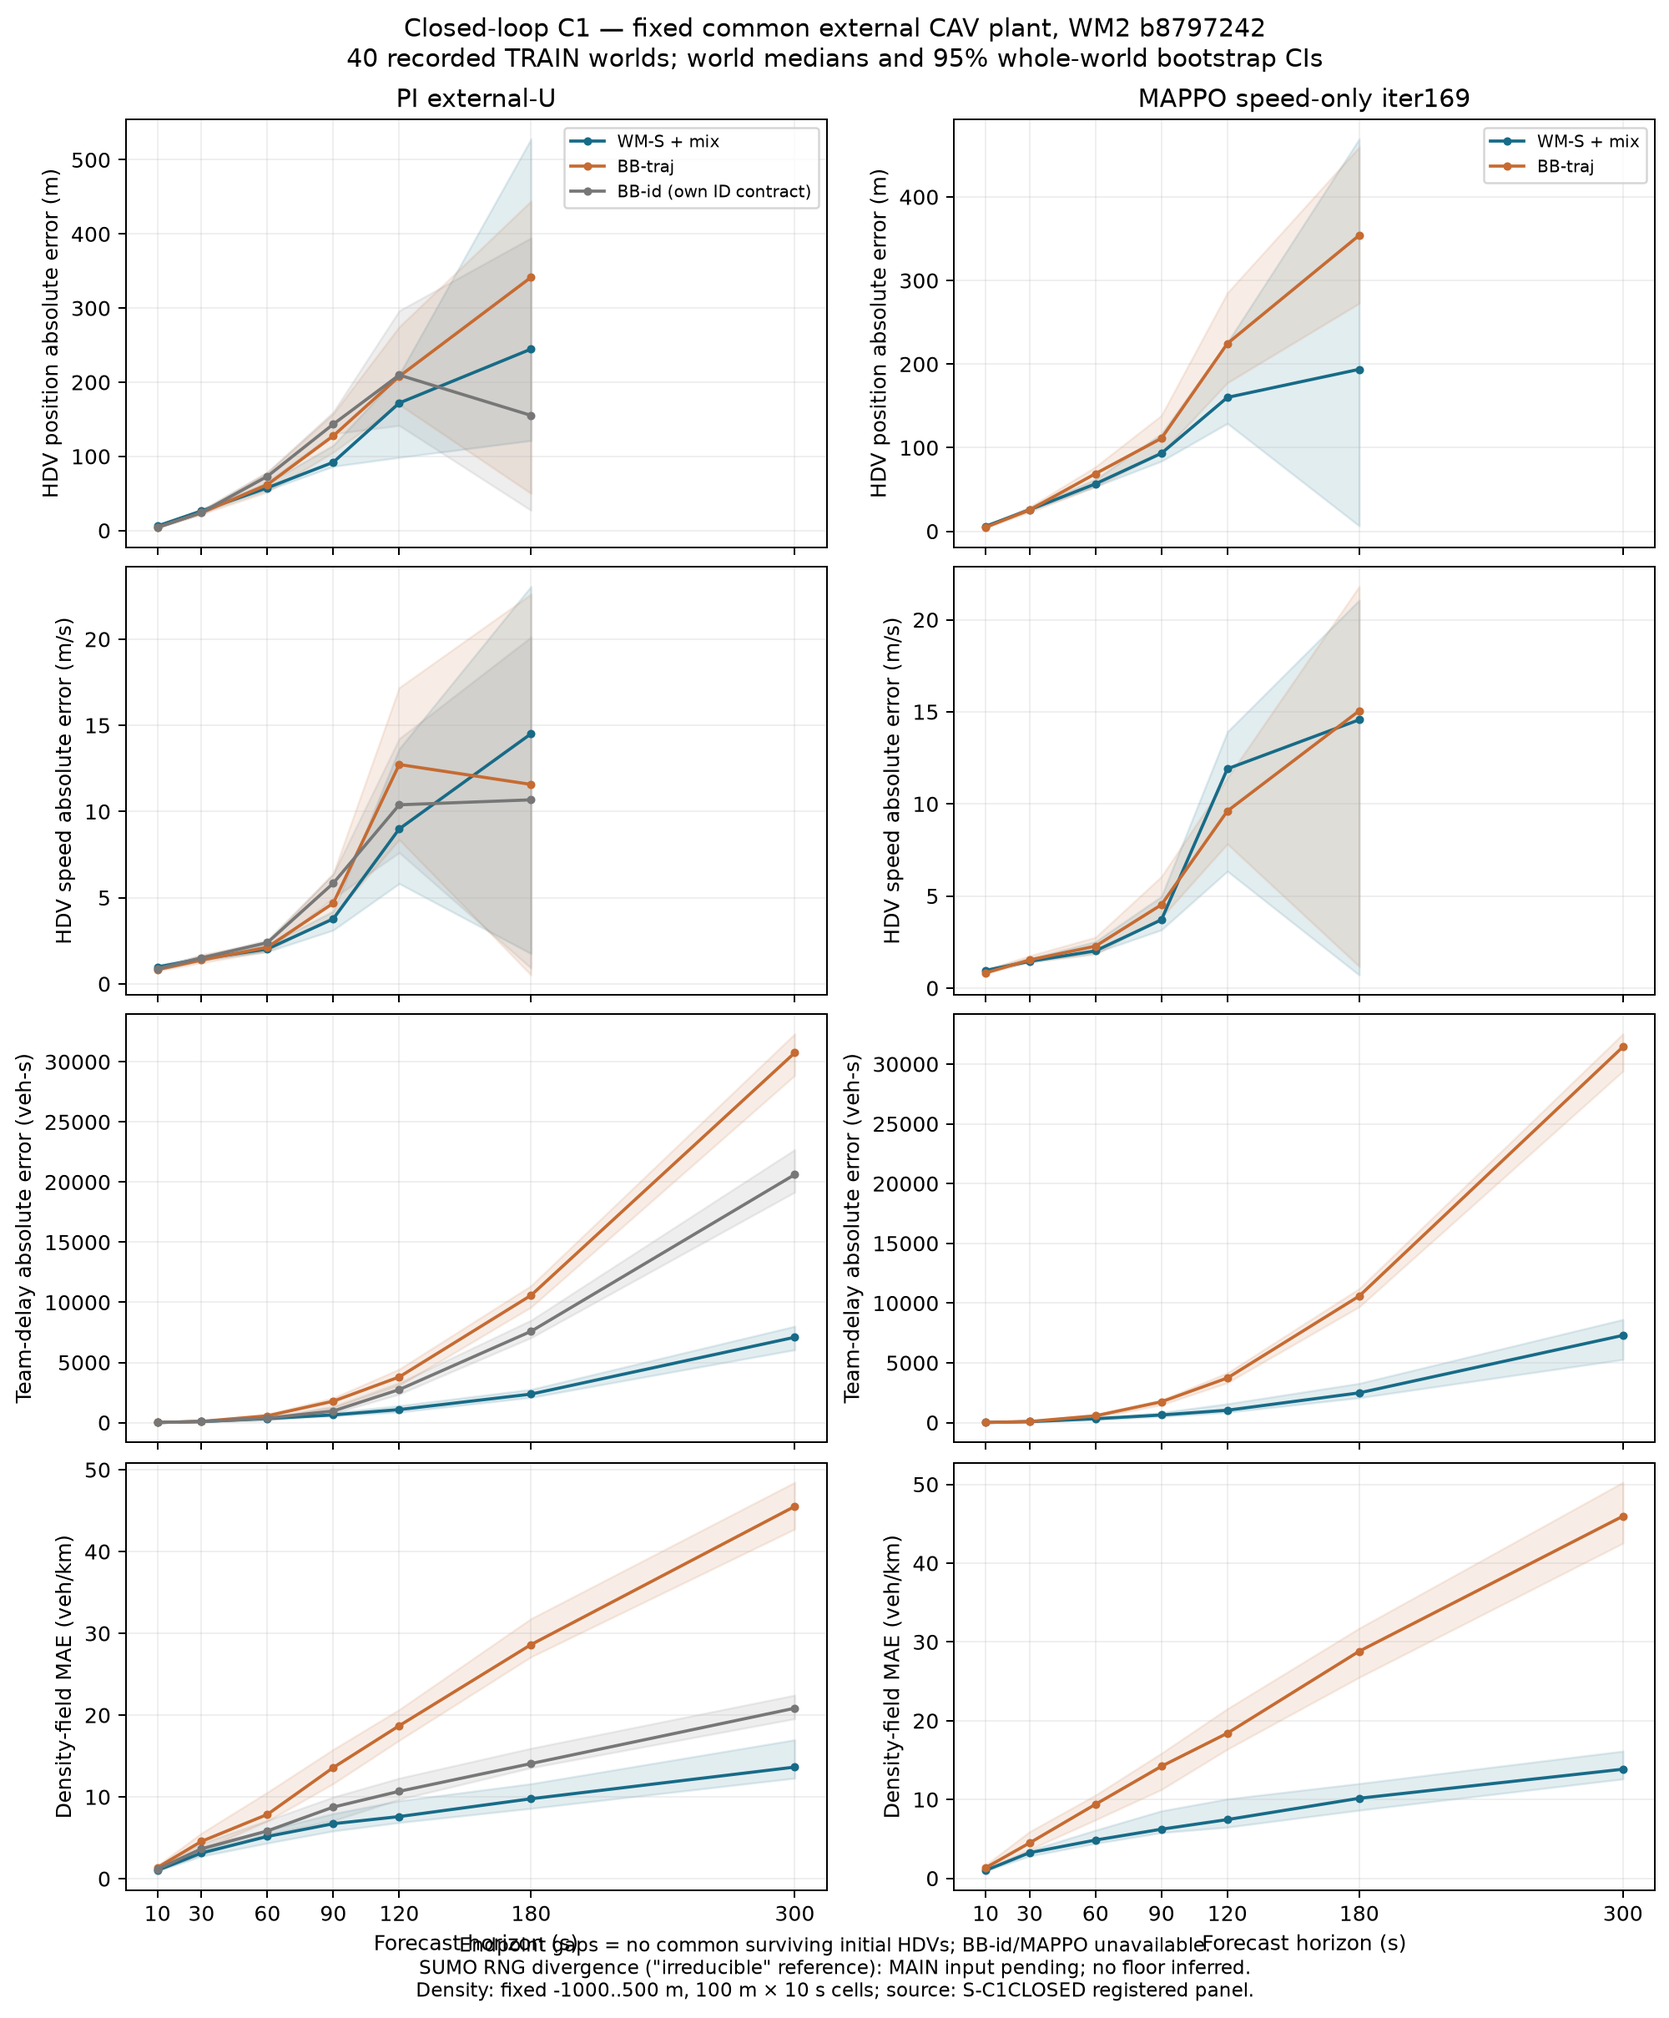
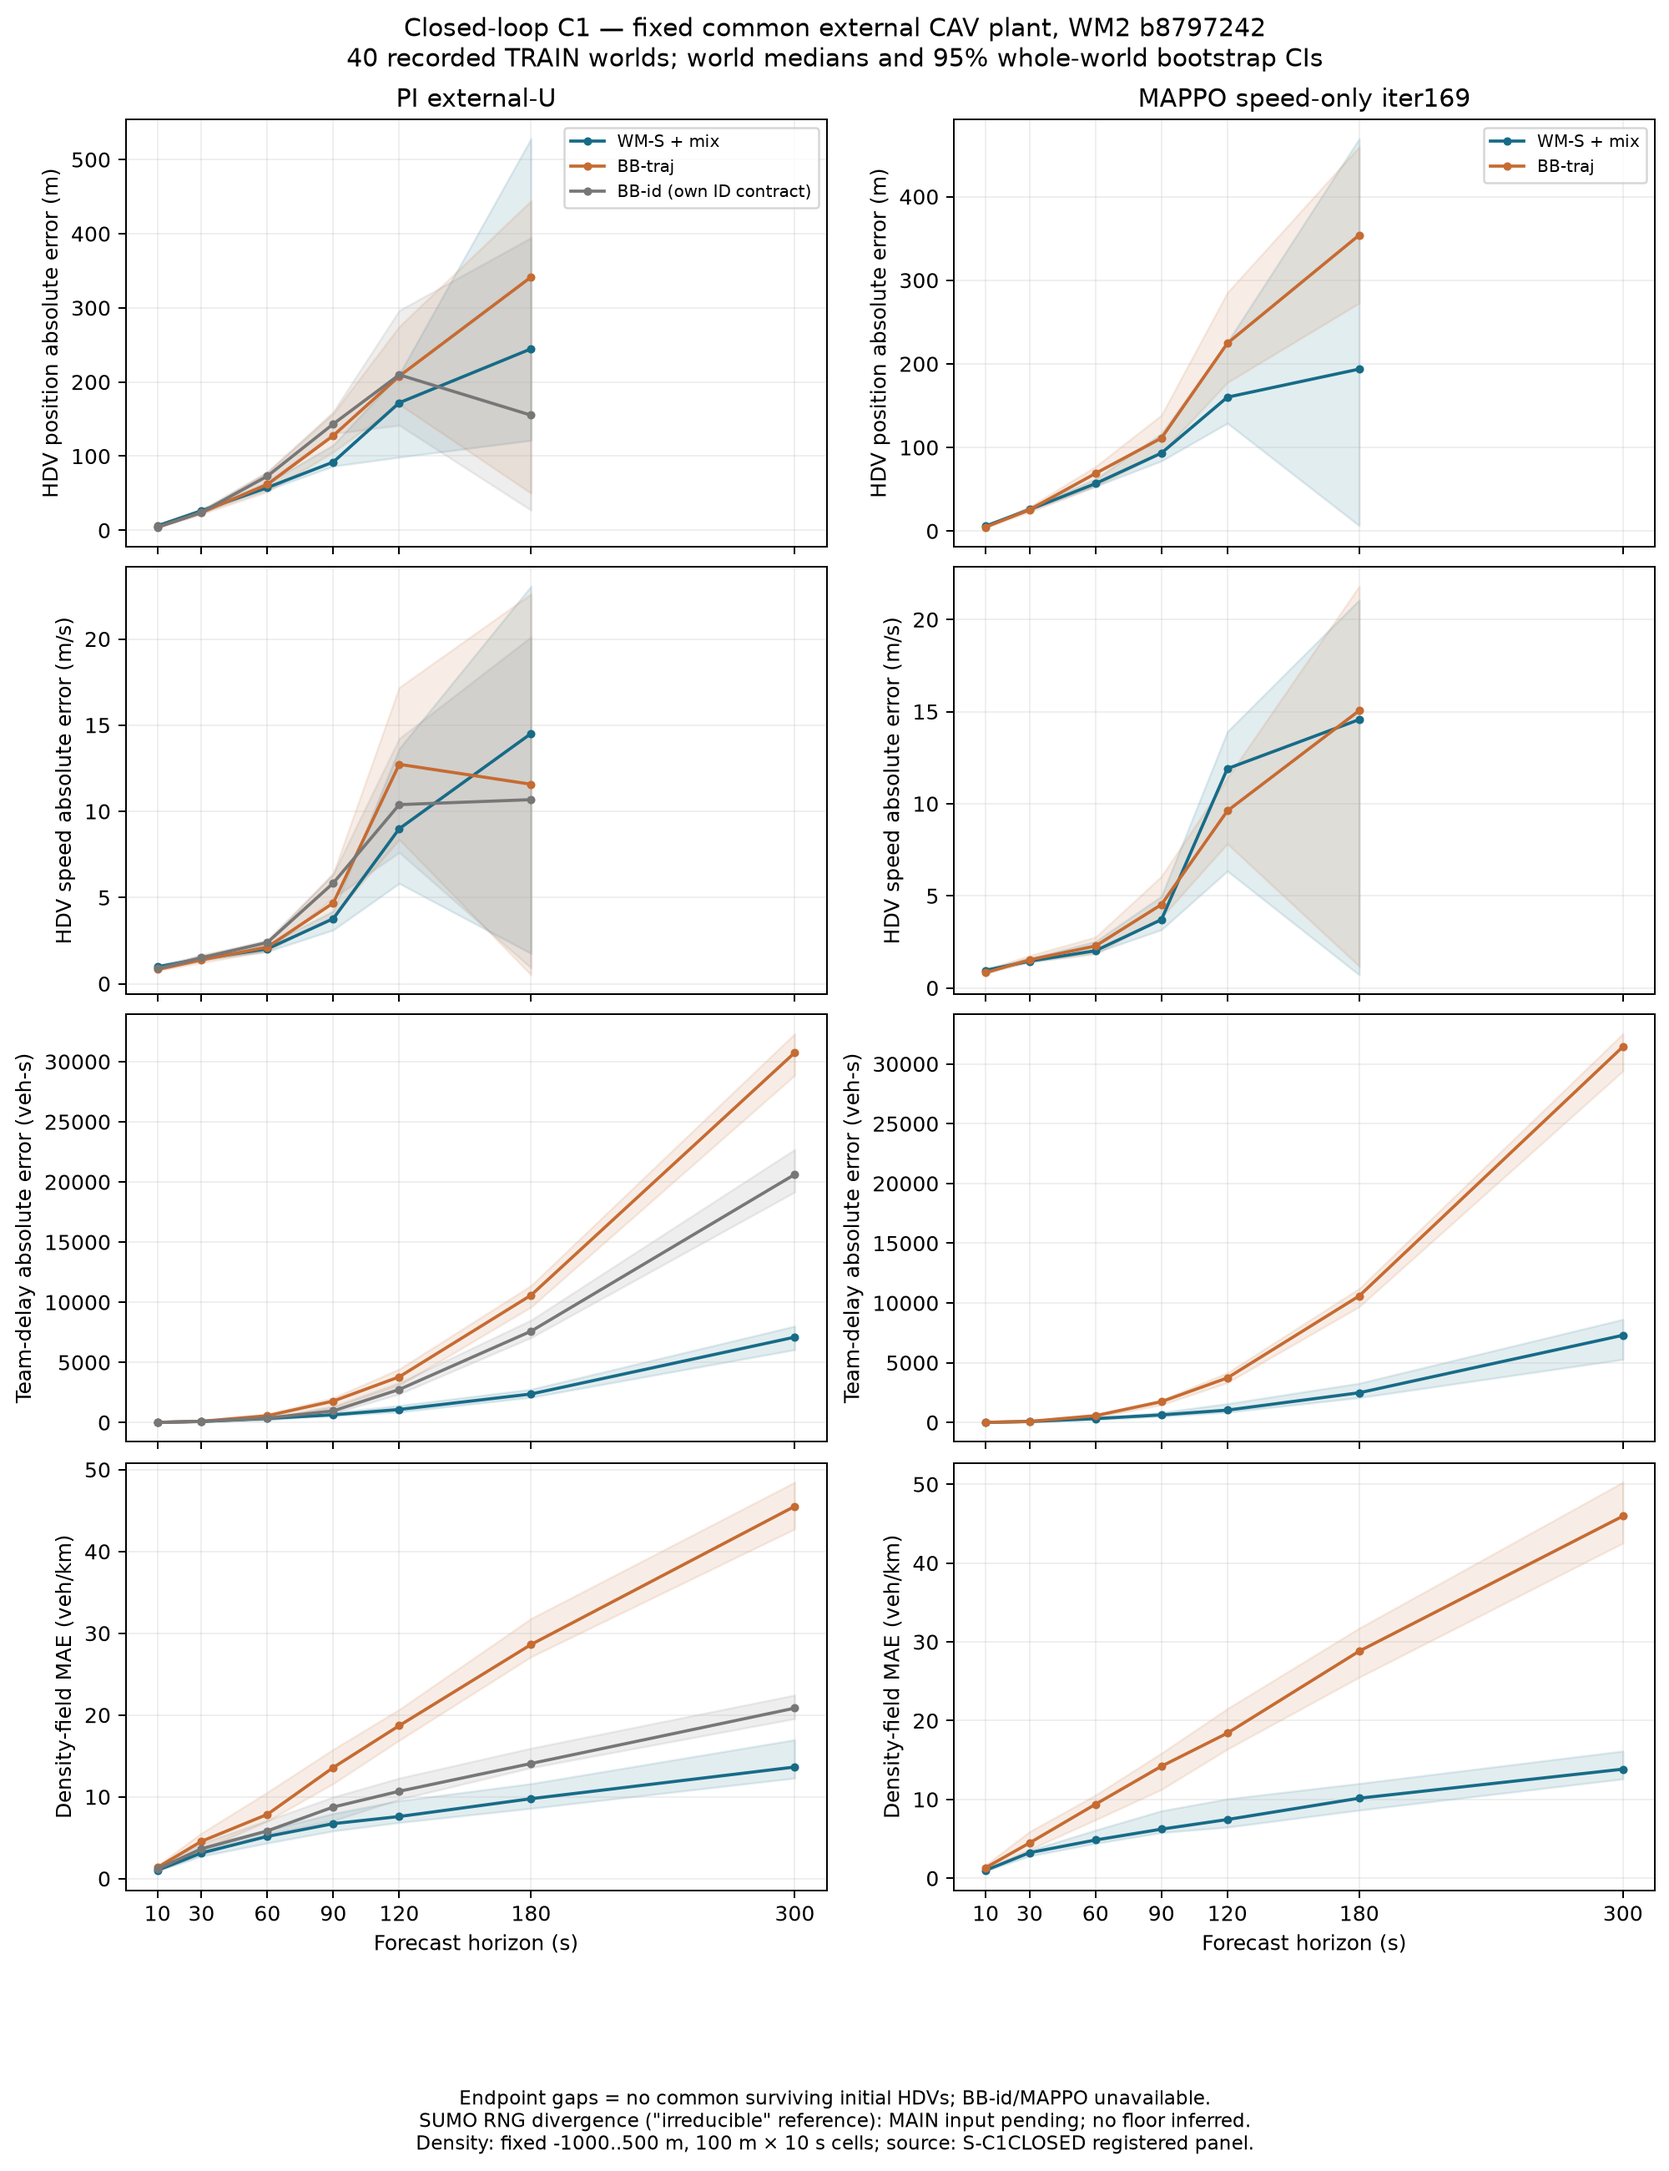
S-C1CLOSED: verify presentation and close owned resources

diff --git a/tools/c1closed/polish_delivery.py b/tools/c1closed/polish_delivery.py
@@ -1,0 +1,90 @@
+"""Presentation-only repair from verified CSVs; no forecasts or re-analysis."""
+from pathlib import Path
+import csv
+import hashlib
+import json
+from unittest.mock import patch
+
+import analyze
+import verify_delivery
+
+HERE = Path(__file__).resolve().parent
+OUT = HERE.parents[1]/'docs/paper_results'
+
+
+def digest(path):
+    return hashlib.sha256(path.read_bytes()).hexdigest()
+
+
+def main():
+    receipt_path = OUT/'C1CLOSED_ANALYSIS.json'
+    old = json.loads(receipt_path.read_text())
+    assert old['analyzer_sha256'] == digest(HERE/'analyze.py')
+    assert 'presentation_revision' not in old
+    for name, expected in old['outputs'].items():
+        assert digest(OUT/name) == expected
+    assert json.loads((HERE/'evidence/DELIVERY_VERIFIED.json').read_text())['passed']
+    assert (HERE/'out').is_dir()
+    archive = HERE/'out/presentation_before'
+    archive.mkdir()
+    for source in (receipt_path, OUT/'C1CLOSED.md', OUT/'C1CLOSED_error_horizon.png',
+                   HERE/'evidence/DELIVERY_VERIFIED.json'):
+        with (archive/source.name).open('xb') as f:
+            f.write(source.read_bytes())
+    metric_names = ('C1CLOSED_per_world.csv','C1CLOSED_paired.csv','C1CLOSED_bootstrap.csv')
+    metric_hashes = {n:digest(OUT/n) for n in metric_names}
+    with (OUT/'C1CLOSED_bootstrap.csv').open(encoding='utf-8',newline='') as f:
+        summary = list(csv.DictReader(f))
+    for row in summary:
+        row['horizon_s'] = int(row['horizon_s'])
+
+    import matplotlib
+    matplotlib.use('Agg')
+    from matplotlib.figure import Figure
+    savefig = Figure.savefig
+
+    def spaced_footer(fig, *args, **kwargs):
+        footers = [t for t in fig.texts if t.get_text().startswith('Endpoint gaps =')]
+        assert len(footers) == 1
+        footers[0].set_position((.5,-.065))
+        footers[0].set_verticalalignment('top')
+        return savefig(fig,*args,**kwargs)
+
+    target = HERE/'out/presentation_after'
+    target.mkdir()
+    # Reuse the exact frozen plot and CSV values; only footer placement changes.
+    with patch.object(Figure,'savefig',spaced_footer):
+        analyze.plot(summary,target)
+    (OUT/'C1CLOSED_error_horizon.png').write_bytes((target/'C1CLOSED_error_horizon.png').read_bytes())
+    report = (OUT/'C1CLOSED.md').read_text(encoding='utf-8')
+    report += ('## Interpretation and numerical limitation\n'
+        'At 60 s neither PI nor MAPPO paired HDV-position contrast excludes zero; current closed-loop endpoint superiority is inconclusive.\n'
+        'Lower 120–300 s team-delay error versus BB-traj coexists with large absolute errors and weak selection; it does not establish accurate controller evaluation.\n'
+        'Mixed-hardware exact cross-host parity failed; the prospectively registered numerical/ensemble gate passed 158/158. See `C1CLOSED_RUNTIME.md`; this is not a SUMO divergence floor.\n')
+    assert len(report.splitlines()) <= 60
+    (OUT/'C1CLOSED.md').write_text(report,encoding='utf-8')
+    assert {n:digest(OUT/n) for n in metric_names} == metric_hashes
+    updated = dict(old)
+    updated['outputs'] = {n:digest(OUT/n) for n in old['outputs']}
+    updated['presentation_revision'] = dict(script_sha256=digest(Path(__file__)),
+        original_analysis_sha256=digest(archive/receipt_path.name),
+        original_plot_sha256=old['outputs']['C1CLOSED_error_horizon.png'],
+        original_scientific_commit='b40939aa',metric_files_unchanged=metric_hashes,
+        changes='footer position and explicit scope interpretation only; frozen analyzer/inference/CSV values unchanged')
+    receipt_path.write_text(json.dumps(updated,indent=1),encoding='utf-8')
+    # Retain the original successful verification and generate a new one for the
+    # actual changed report/PNG/manifest using the unchanged verifier.
+    (HERE/'evidence/DELIVERY_VERIFIED.json').rename(HERE/'evidence/DELIVERY_PRE_LAYOUT.json')
+    verify_delivery.main()
+    check = dict(passed=True,metric_files_unchanged=metric_hashes,
+        analyzer_unchanged=digest(HERE/'analyze.py') == old['analyzer_sha256'],
+        original_archive=str(archive),analysis_sha256=digest(receipt_path),
+        script_sha256=digest(Path(__file__)),
+        changes=updated['presentation_revision']['changes'])
+    with (HERE/'evidence/PRESENTATION_UPDATED.json').open('x') as f:
+        json.dump(check,f,indent=1)
+    print(json.dumps(check))
+
+
+if __name__ == '__main__':
+    main()

diff --git a/tools/c1closed/close.py b/tools/c1closed/close.py
@@ -1,0 +1,71 @@
+"""Read-only owned-resource audit and explicit encoding-stop resolution receipt."""
+from pathlib import Path
+from datetime import datetime
+import hashlib
+import json
+import subprocess
+
+from operate import HERE, REMOTE
+from probe import ssh
+from watch import creation
+
+
+def digest(path):
+    return hashlib.sha256(path.read_bytes()).hexdigest()
+
+
+def write(path, value):
+    with path.open('x',encoding='utf-8') as f:
+        json.dump(value,f,indent=1)
+
+
+def main():
+    hosts = {}
+    for host in ('gpuA','gpuR'):
+        hosts[host] = json.loads(ssh(host,f'''from pathlib import Path
+import sys,json
+sys.path.insert(0,{REMOTE!r});import expand_runner as r
+p=Path({REMOTE!r});live=[];checked=0
+receipts=list((p/'evidence').glob('*_OWNED.json'))
+receipts += [p/n for n in ('DISPATCH.json','EXPAND_DISPATCH.json','evidence/TAIL_RECOVERY_LAUNCH.json') if (p/n).exists()]
+for q in receipts:
+ x=json.loads(q.read_text())
+ if 'pid' not in x or 'start_ticks' not in x:continue
+ checked+=1;stat=Path('/proc/'+str(x['pid'])+'/stat')
+ if stat.exists():
+  s=stat.read_text().split(') ',1)[1].split()
+  if s[19]==x['start_ticks'] and s[0]!='Z':live.append(dict(pid=x['pid'],state=s[0],receipt=q.name))
+free,owned=r.memory()
+print(json.dumps(dict(checked_owned_receipts=checked,live_owned=live,owned_gpu_mib=owned,free_gpu_mib=free,panel_files=len(list((p/'panel').glob('*_h300.json'))))))
+'''))
+        assert not hosts[host]['live_owned'] and hosts[host]['owned_gpu_mib'] == 0
+    local = {}
+    for name in ('WATCH_LAUNCH.json','EXPAND_BRIDGE_LAUNCH.json'):
+        x = json.loads((HERE/'evidence'/name).read_text())
+        local[name] = dict(pid=x['pid'],alive=creation(x['pid']) == x['creation_time'])
+        assert not local[name]['alive']
+    for p in (HERE/'evidence').glob('PREFETCH_*_LAUNCH.json'):
+        x = json.loads(p.read_text())
+        assert creation(x['pid']) != x['creation_time']
+    watch = json.loads((HERE/'evidence/WATCH_LAUNCH.json').read_text())
+    assert all(digest(HERE/n) == v for n,v in watch['source_hashes'].items())
+    check = json.loads((HERE/'evidence/DELIVERY_VERIFIED.json').read_text())
+    assert check['passed'] and check['tasks'] == 480
+    blocked = json.loads((HERE/'evidence/WATCH_BLOCKED.json').read_text())
+    assert 'UnicodeEncodeError' in blocked['error'] and 'gbk' in blocked['error']
+    root = HERE.parents[1]
+    scientific = subprocess.check_output(['git','rev-parse','b40939aa'],cwd=root,text=True).strip()
+    audit = dict(passed=True,at=datetime.now().astimezone().isoformat(),hosts=hosts,
+                 local=local,all_frozen_collector_sources_unchanged=True,
+                 delivery_sha256=digest(HERE/'evidence/DELIVERY_VERIFIED.json'))
+    write(HERE/'evidence/OWNED_RESOURCES_CLOSED.json',audit)
+    write(HERE/'evidence/WATCH_COMPLETE.json',dict(finished=audit['at'],commit=scientific,
+        delivery_sha256=audit['delivery_sha256'],manual_resolution=True,
+        reason='Original sole collector finished sync, tests, complete-panel analysis and delivery verification; GBK stdout failed while displaying staged diff before commit. Reviewed intended index and committed as b40939aa without rerunning analysis. Presentation-only footer/scope update subsequently reverified; all three metric CSVs unchanged.',
+        blocked_receipt_retained=True,presentation_receipt_sha256=digest(HERE/'evidence/PRESENTATION_UPDATED.json'),
+        owned_resource_receipt_sha256=digest(HERE/'evidence/OWNED_RESOURCES_CLOSED.json')))
+    print(json.dumps(audit))
+
+
+if __name__ == '__main__':
+    main()

diff --git a/runs/active/C4-V7FT-20261017/REGISTRATION.md b/runs/active/C4-V7FT-20261017/REGISTRATION.md
@@ -23,3 +23,4 @@ The branch base predates the main worktree's current master ledger. These task-l
 - 2026-10-31 S-C1CLOSED cache transport recovery:256-file bulk33,103,907-byte archive SCP timed out600s, partial archive/log retained and no imported files. After its exact-owned process exited, cache_bridge.py reused314 already-local publication copies verified against remote hashes, leaving443/467 pre-recovery outputs cached and24 for the original sync. BRIDGE_CACHE_1793458202649004600.json binds every reused hash; no inference/scoring/source change or new collector.
 
 - 2026-10-31T23:09:42.329924+08:00 S-C1CLOSED COMPLETED full registered 480-task/40-world K8 panel; original frozen BBs only; endpoint/speed, paired whole-world CIs, E2 direction/ranking and aggregate/delay components exported in docs/paper_results/C1CLOSED.md + per_world/paired/bootstrap CSV + error_horizon PNG; DELIVERY_VERIFIED.json PASS. Primary WM2 unchanged; wall restoration, passing WM-fix verdict and MAIN floor remain separate pending slots. Zero SUMO/training/push.
+- 2026-10-31 23:14+08 S-C1CLOSED CLOSED: original collector verified all480 tasks/200 label sets, estimand fixtures and delivery PASS; emitted7840 per-world/4480 paired/8883 summary rows. GBK stdout failed while displaying the staged report before commit; preserved WATCH_BLOCKED.json and manually committed the already-verified intended index asb40939aa, no analysis rerun/new collector. Presentation-only footer spacing and explicit inconclusive60s/long-horizon/numerical scope added via polish_delivery.py; all3 metric CSV hashes unchanged, report48lines, original outputs archived, unchanged verifier PASS again. WATCH_COMPLETE.json records manual resolution; OWNED_RESOURCES_CLOSED.json verifies505 exact-owned remote receipts, zero live owned workers/coordinators/GPU memory, original collector/bridge exited and frozen source hashes unchanged. Primary WM2 unchanged; wall/strict initialization-lineage/RNG-floor/qualified WM-fix remain scoped limitations, not successful results. No SUMO, BB training, data deletion or push.

diff --git a/docs/paper_results/C1CLOSED.md b/docs/paper_results/C1CLOSED.md
@@ -42,3 +42,7 @@ SUMO RNG divergence-floor slot: unavailable pending MAIN-supplied approved recor
 Files: `C1CLOSED_per_world.csv`, `C1CLOSED_paired.csv`, `C1CLOSED_bootstrap.csv`, `C1CLOSED_error_horizon.png`, `C1CLOSED_ANALYSIS.json`.
 Reproduce: `python -B tools/c1closed/sync.py`; `python -B tools/c1closed/analyze.py`; CPU/source/PID receipts in `tools/c1closed/evidence/`.
 No qualification threshold is borrowed from E2; relative BB advantages, absolute fidelity and controller selection are distinct claims.
+## Interpretation and numerical limitation
+At 60 s neither PI nor MAPPO paired HDV-position contrast excludes zero; current closed-loop endpoint superiority is inconclusive.
+Lower 120–300 s team-delay error versus BB-traj coexists with large absolute errors and weak selection; it does not establish accurate controller evaluation.
+Mixed-hardware exact cross-host parity failed; the prospectively registered numerical/ensemble gate passed 158/158. See `C1CLOSED_RUNTIME.md`; this is not a SUMO divergence floor.
